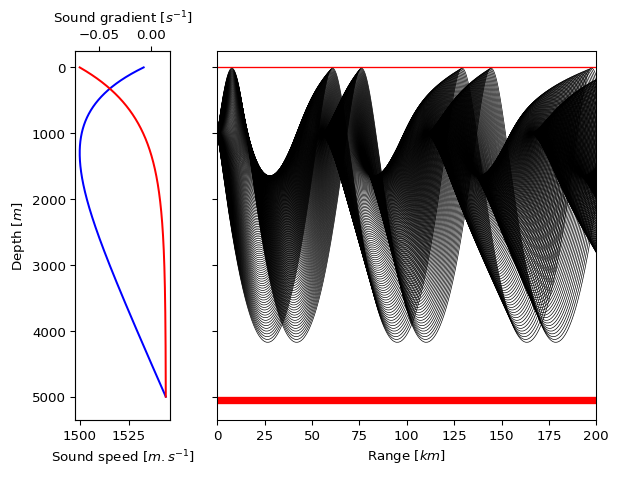
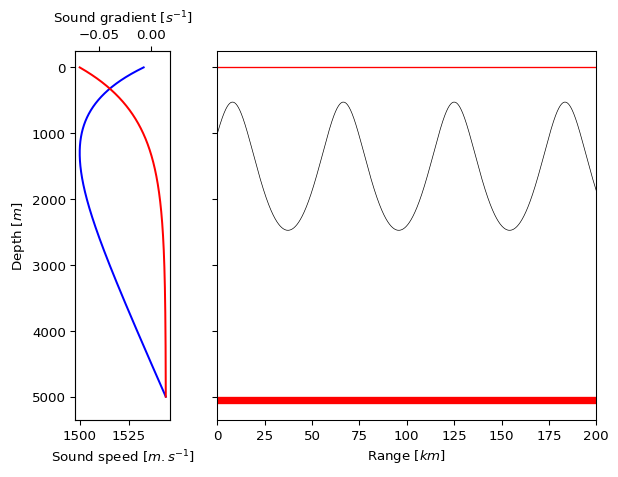
oopsie

Changed region(s): [[0.3382, 0.1468, 0.9838, 0.7338]]

diff --git a/examples/example_notebook.md b/examples/example_notebook.md
@@ -31,7 +31,9 @@ from python_utils import (
   munk_profile,
   plot_rays,
   plot_pq,
+  plot_sound_field
 )
+import numpy as np
 from datetime import datetime
 from IPython.display import HTML
 ```
@@ -48,8 +50,8 @@ print(f"LogicalCores: {psutil.cpu_count(logical=True)}")
 ```
 
     x86_64
-    Physical Cores: 2
-    LogicalCores: 4
+    Physical Cores: 8
+    LogicalCores: 16
 
 # Geometric Ray Tracing
 
@@ -131,7 +133,7 @@ t = datetime.now() - t0
 print(f"Time required to complete simulation: {t}")
 ```
 
-    Time required to complete simulation: 0:00:00.590356
+    Time required to complete simulation: 0:00:00.050486
 
 To visualise the results call the `plot_rays` function.
 
@@ -194,6 +196,8 @@ plt.show()
 
 # Beam Tracing
 
+## P-Q Calculation
+
 The beam tracing process runs the initial geometric ray tracing
 algorithm followed by dynamic ray tracing and finally formulation of the
 beams. The beam intensity calculation is not yet implemented but some
@@ -207,7 +211,7 @@ selection of “BackwardEuler”, “RungeKutta4”, “Radau3IA” and “Radau
 prog_config = ProgConfig(max_it=int(1e5), max_range=2e5, min_range=-1.0,
                          depth_step=1.0, output_path="output_data")
 ray_config = RayConfig(prog_config=prog_config,
-                       env_config=env_config, sources=sources)
+                       env_config=env_config, sources=sources_iso)
 beam_config = BeamConfig(
     ray_config=ray_config, pq_solver="RungeKutta4", pressure_locs=[], window_width=None)
 ```
@@ -216,18 +220,18 @@ To run the simulation call the `trace_beams` function.
 
 ``` python
 t0 = datetime.now()
-beams = trace_beams(beam_config)
+beam_res = trace_beams(beam_config)
 t = datetime.now() - t0
 print(f"Time required to complete simulation: {t}")
 ```
 
-    Time required to complete simulation: 0:00:00.846206
+    Time required to complete simulation: 0:00:00.003785
 
 By taking the central ray from each beam object the same ray propagation
 plot can be created as before with the ray tracing approach.
 
 ``` python
-rays = [bm.central_ray for bm in beams]
+rays = [bm.central_ray for bm in beam_res.beams]
 ray_fig = plot_rays(config, rays)
 ```
 
@@ -237,7 +241,7 @@ The $p-q$ variables (as defined in docs/theory.pdf) can also be viewed
 to determine if the solver is stable.
 
 ``` python
-fig = plot_pq(beams[0:10])
+fig = plot_pq(beam_res.beams[0:10])
 fig.axes[0].set_xlim((0, 10))
 fig.axes[1].set_xlim((-1, 10))
 fig.axes[2].set_xlim((0, 20))
@@ -251,19 +255,25 @@ is an explicity solver. For a better chance, try the Radau3IIA method as
 this is an implicit solver for stiff equations.
 
 ``` python
+ranges = np.linspace(0, 5e4, 5001)
+depths = np.linspace(0, 5e3, 501)
+ranges, depths = np.meshgrid(ranges, depths)
+ranges = ranges.flatten()
+depths = depths.flatten()
+locs = [(ranges[i], depths[i]) for i in range(len(ranges))]
 beam_config = BeamConfig(
-    ray_config=ray_config, pq_solver="Radau3IIA", pressure_locs=[], window_width=None)
+    ray_config=ray_config, pq_solver="Radau3IIA", pressure_locs=locs, window_width=None)
 t0 = datetime.now()
-beams = trace_beams(beam_config)
+beam_res = trace_beams(beam_config)
 t = datetime.now() - t0
 print(f"Time required to complete simulation: {t}")
-fig = plot_pq(beams[0:10])
+fig = plot_pq(beam_res.beams[0:10])
 fig.axes[0].set_ylim((-1, 5))
 fig.axes[2].set_ylim((-1e-10, 5e-10))
 fig.axes[3].set_ylim((-1e-5, 3e-3))
 ```
 
-    Time required to complete simulation: 0:00:00.820478
+    Time required to complete simulation: 0:00:08.195565
 
 ![](example_notebook_files/figure-commonmark/cell-17-output-2.png)
 
@@ -271,3 +281,15 @@ This solver appears to be more stable but there are still significant
 issues with divergence after ~1000 iterations. Until this stability
 issue is explained or solved, pressure evaluation in the sound field
 cannot be accurately completed.
+
+## Pressure Field
+
+Calculation of the pressure field does not appear to be working
+correctly although it is unclear if this is an artefact of the shading
+or the result at this point in time.
+
+``` python
+plot_sound_field(cfg=beam_config.ray_config, beam_res=beam_res)
+```
+
+![](example_notebook_files/figure-commonmark/cell-18-output-1.png)
